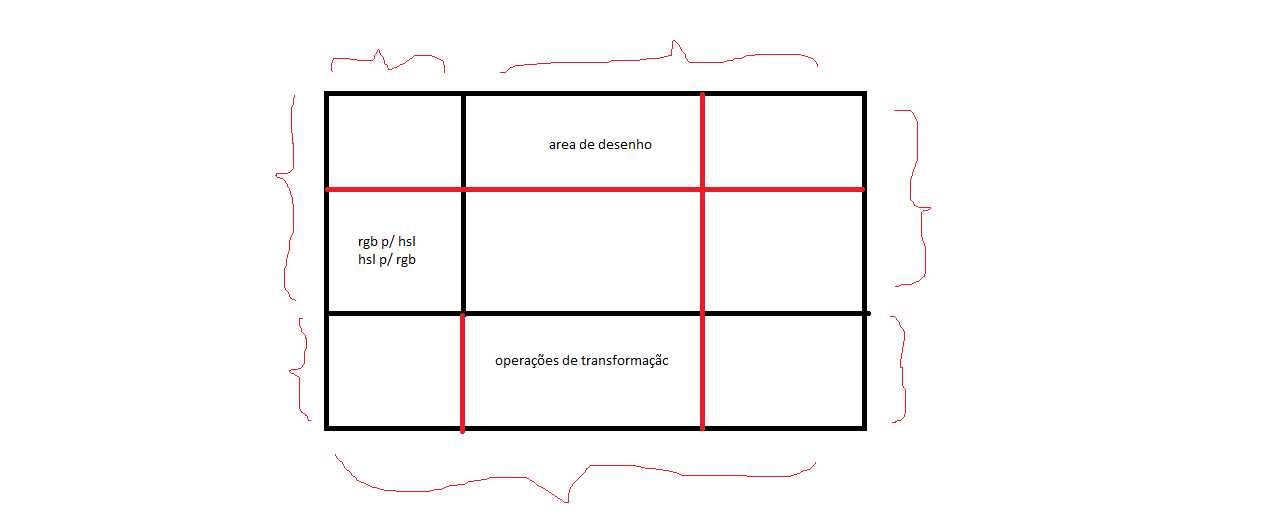
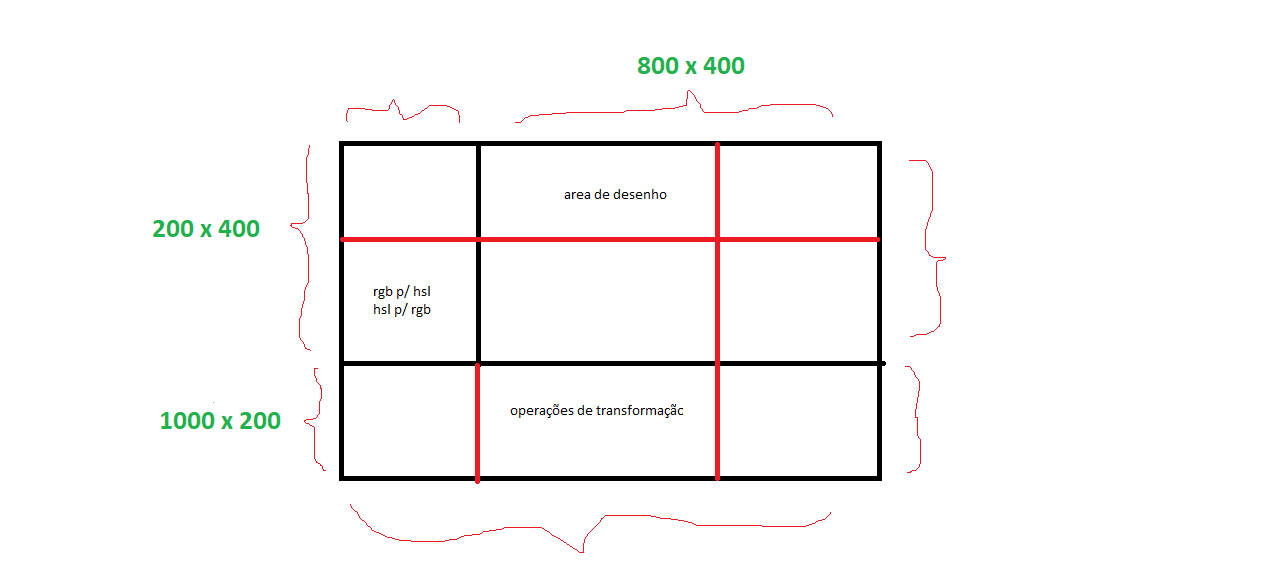
Alteração tamanhos de painéis transf.

diff --git a/src/gui/JFramePrincipal.java b/src/gui/JFramePrincipal.java
@@ -15,7 +15,9 @@ public class JFramePrincipal extends JFrame {
     @Serial
     private static final long serialVersionUID = 2726163241486755910L;
     private final ImagePanel imagePanel;
+    private final RgbHslPanel rgbHslPanel;
 
+    private final TransformacoesPanel transformacoesPanel;
     public Controlador controlador;
 
     public JFramePrincipal() {
@@ -47,6 +49,7 @@ public class JFramePrincipal extends JFrame {
 
         imagePanel = new ImagePanel();
         controlador.setImagePanel(imagePanel);
+        imagePanel.setPreferredSize(new Dimension(800, 350));
 
         openMenuItem.addActionListener(e -> {
             JFileChooser fileChooser = new JFileChooser();
@@ -112,8 +115,45 @@ public class JFramePrincipal extends JFrame {
         drawMenu.add(drawCircBresenhamMenuItem);
         menuBar.add(drawMenu);
 
+
+        rgbHslPanel = new RgbHslPanel();
+        controlador.setRgbHslPanel(new RgbHslPanel());
+        rgbHslPanel.setPreferredSize(new Dimension(150, 300));
+
+        transformacoesPanel = new TransformacoesPanel();
+        controlador.setTransformacoesPanel(new TransformacoesPanel());
+        transformacoesPanel.setPreferredSize(new Dimension(1000, 250));
+
+        javax.swing.GroupLayout layout = new javax.swing.GroupLayout(getContentPane());
+        getContentPane().setLayout(layout);
+        layout.setHorizontalGroup(
+                layout.createParallelGroup(javax.swing.GroupLayout.Alignment.LEADING)
+                        .addGroup(layout.createSequentialGroup()
+                                .addGroup(layout.createParallelGroup(javax.swing.GroupLayout.Alignment.LEADING)
+                                        .addGroup(layout.createSequentialGroup()
+                                                .addComponent(rgbHslPanel, javax.swing.GroupLayout.PREFERRED_SIZE, javax.swing.GroupLayout.DEFAULT_SIZE, javax.swing.GroupLayout.PREFERRED_SIZE)
+                                                .addPreferredGap(javax.swing.LayoutStyle.ComponentPlacement.UNRELATED)
+                                                .addComponent(imagePanel, javax.swing.GroupLayout.DEFAULT_SIZE, javax.swing.GroupLayout.DEFAULT_SIZE, Short.MAX_VALUE))
+                                        .addGroup(layout.createSequentialGroup()
+                                                .addContainerGap()
+                                                .addComponent(transformacoesPanel, javax.swing.GroupLayout.DEFAULT_SIZE, javax.swing.GroupLayout.DEFAULT_SIZE, Short.MAX_VALUE)))
+                                .addContainerGap())
+        );
+        layout.setVerticalGroup(
+                layout.createParallelGroup(javax.swing.GroupLayout.Alignment.LEADING)
+                        .addGroup(layout.createSequentialGroup()
+                                .addContainerGap()
+                                .addGroup(layout.createParallelGroup(javax.swing.GroupLayout.Alignment.LEADING)
+                                        .addComponent(imagePanel, javax.swing.GroupLayout.PREFERRED_SIZE, javax.swing.GroupLayout.DEFAULT_SIZE, javax.swing.GroupLayout.PREFERRED_SIZE)
+                                        .addComponent(rgbHslPanel, javax.swing.GroupLayout.PREFERRED_SIZE, javax.swing.GroupLayout.DEFAULT_SIZE, javax.swing.GroupLayout.PREFERRED_SIZE))
+                                .addPreferredGap(javax.swing.LayoutStyle.ComponentPlacement.RELATED)
+                                .addComponent(transformacoesPanel, javax.swing.GroupLayout.DEFAULT_SIZE, javax.swing.GroupLayout.DEFAULT_SIZE, Short.MAX_VALUE)
+                                .addContainerGap())
+        );
+
+
         // Configura as restrições para o ImagePanel
-        GridBagConstraints gbc1 = new GridBagConstraints();
+        /*GridBagConstraints gbc1 = new GridBagConstraints();
         gbc1.gridx = 1; // coluna 2
         gbc1.gridy = 0;
         gbc1.weightx = 2; // Proporção 1
@@ -123,9 +163,6 @@ public class JFramePrincipal extends JFrame {
         // o que alinha os painéis à esquerda dentro de suas células do layout.
         gbc1.anchor = GridBagConstraints.EAST; // Alinha à direita
 
-        RgbHslPanel rgbhslPanel = new RgbHslPanel();
-        //rgbhslPanel.setPreferredSize(new Dimension(150, 300));
-        controlador.setRgbHslPanel(rgbhslPanel);
 
         // Configura as restrições para o RgbHslPanel
         GridBagConstraints gbc2 = new GridBagConstraints();
@@ -136,8 +173,7 @@ public class JFramePrincipal extends JFrame {
         //gbc2.fill = GridBagConstraints.BOTH; // Preenche ambos os eixos
         gbc2.anchor = GridBagConstraints.WEST; // Alinha à esquerda
 
-        TransformacoesPanel TransformacoesPanel = new TransformacoesPanel();
-        controlador.setTransformacoesPanel(new TransformacoesPanel());
+
 
         // Configura as restrições para o TransformacoesPanel
         GridBagConstraints gbc3 = new GridBagConstraints();
@@ -150,6 +186,6 @@ public class JFramePrincipal extends JFrame {
 
         add(imagePanel, gbc1);
         add(rgbhslPanel, gbc2);
-        add(TransformacoesPanel, gbc3);
+        add(TransformacoesPanel, gbc3);*/
     }
 }

diff --git a/src/gui/TransformacoesPanel.java b/src/gui/TransformacoesPanel.java
@@ -24,13 +24,16 @@ public class TransformacoesPanel extends JPanel {
     private void initComponents() {
         java.awt.GridBagConstraints gridBagConstraints;
 
+        setPreferredSize(new Dimension(1000, 250));
         javax.swing.JTextField jTextField5;
         JPanel jPanel1 = new JPanel(); // painel 1 / desenha casinha - reseta área de desenho
+        jPanel1.setPreferredSize(new Dimension(100, 200));
         jPanel1.setBorder(BorderFactory.createLineBorder(Color.black));
         jLabel1 = new javax.swing.JLabel();
         jButtonDesenhaCasinha = new javax.swing.JButton();
         jButtonReset = new javax.swing.JButton();
-        JPanel jPanel2 = new JPanel(); // painel 2 / translação - rotação 
+        JPanel jPanel2 = new JPanel(); // painel 2 / translação - rotação
+        jPanel2.setPreferredSize(new Dimension(300, 200));
         jPanel2.setBorder(BorderFactory.createLineBorder(Color.black));
         JLabel jLabel2 = new JLabel();
         JLabel jLabel3 = new JLabel();
@@ -51,6 +54,7 @@ public class TransformacoesPanel extends JPanel {
         jLabel11 = new javax.swing.JLabel();
         jButtonRotacaoObjeto = new javax.swing.JButton();
         JPanel jPanel3 = new JPanel(); // painel 3 / escala
+        jPanel3.setPreferredSize(new Dimension(300, 200));
         jPanel3.setBorder(BorderFactory.createLineBorder(Color.black));
         jLabel12 = new javax.swing.JLabel();
         jLabel13 = new javax.swing.JLabel();
@@ -64,6 +68,7 @@ public class TransformacoesPanel extends JPanel {
         JTextField jTextField11 = new JTextField();
         jButton6 = new javax.swing.JButton();
         JPanel jPanel4 = new JPanel(); // painel 4 / cizalhamento
+        jPanel4.setPreferredSize(new Dimension(300, 200));
         jPanel4.setBorder(BorderFactory.createLineBorder(Color.black));
         JLabel jLabel18 = new JLabel();
         JTextField jTextField12 = new JTextField();

diff --git a/src/gui/ImagePanel.java b/src/gui/ImagePanel.java
@@ -35,7 +35,8 @@ public class ImagePanel extends JPanel {
     private DrawingMethod drawingMethod;
 
     public ImagePanel() {
-        image = new BufferedImage(800, 600, BufferedImage.TYPE_INT_RGB);
+
+        image = new BufferedImage(800, 350, BufferedImage.TYPE_INT_RGB);
         buffer = new BufferedImage(image.getWidth(), image.getHeight(), BufferedImage.TYPE_INT_RGB);
 
         setBackground(Color.BLACK);

diff --git a/src/gui/RgbHslPanel.java b/src/gui/RgbHslPanel.java
@@ -16,6 +16,8 @@ public class RgbHslPanel extends JPanel {
 
     public RgbHslPanel() {
 
+        setPreferredSize(new Dimension(150, 300));
+
         setLayout(new GridBagLayout());
 
         listatextfieldsRGB = new ArrayList<>();
